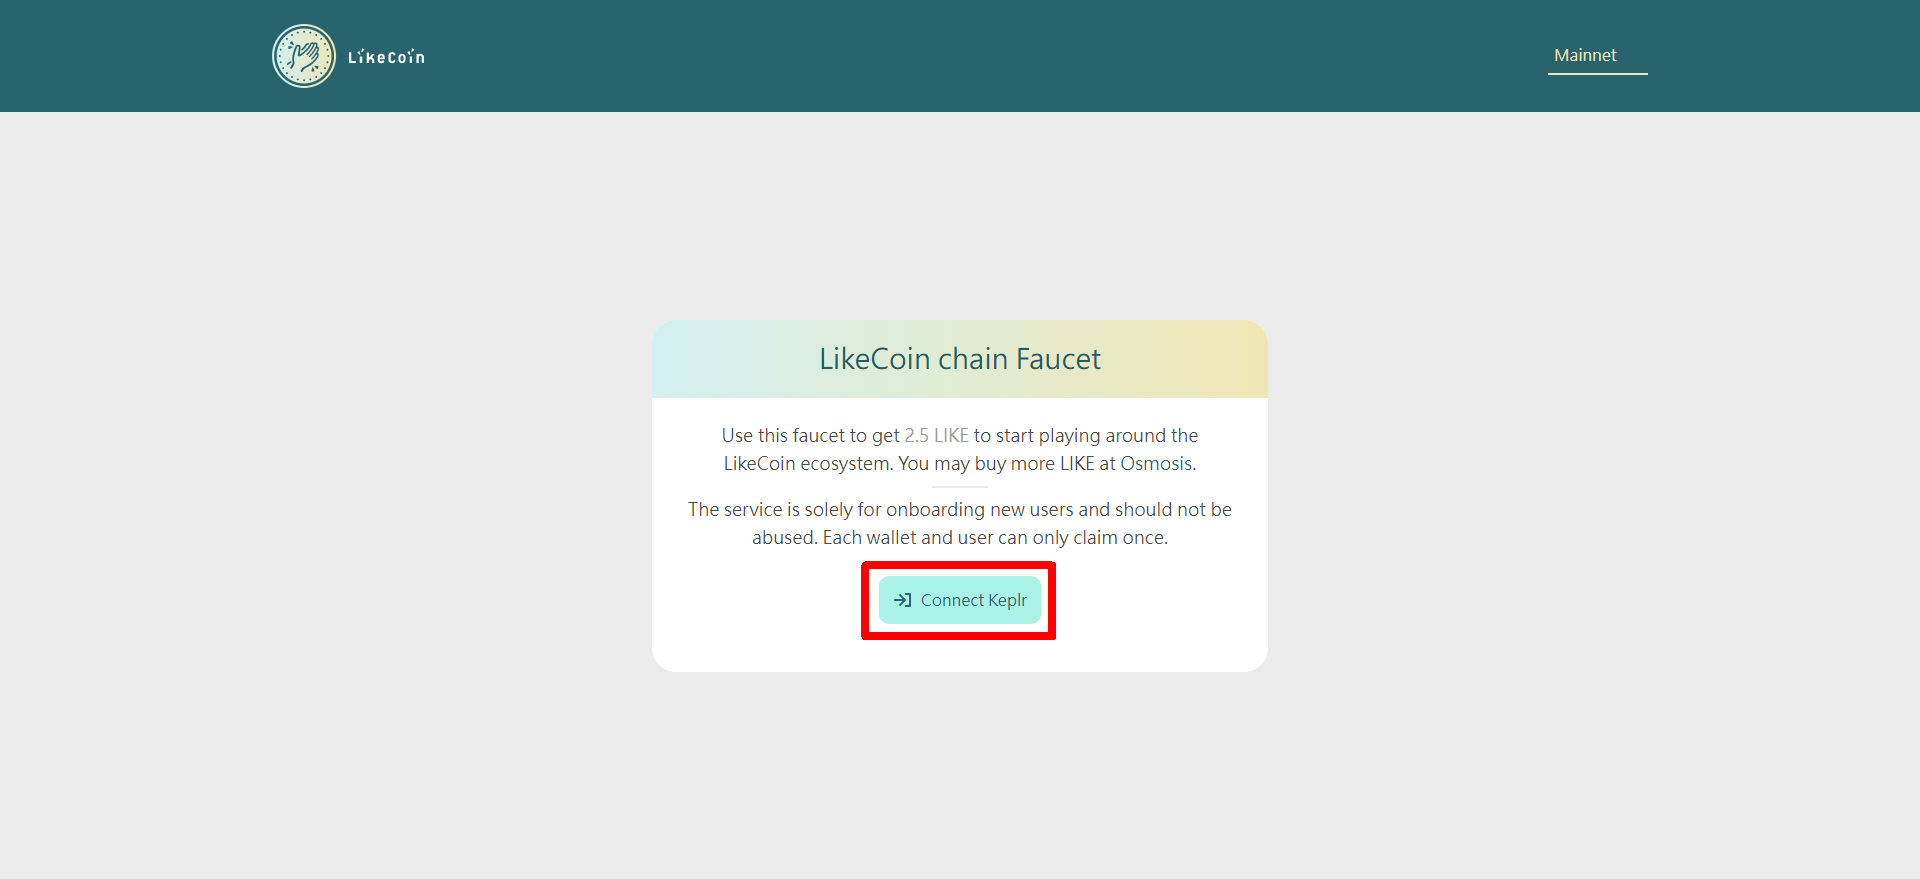
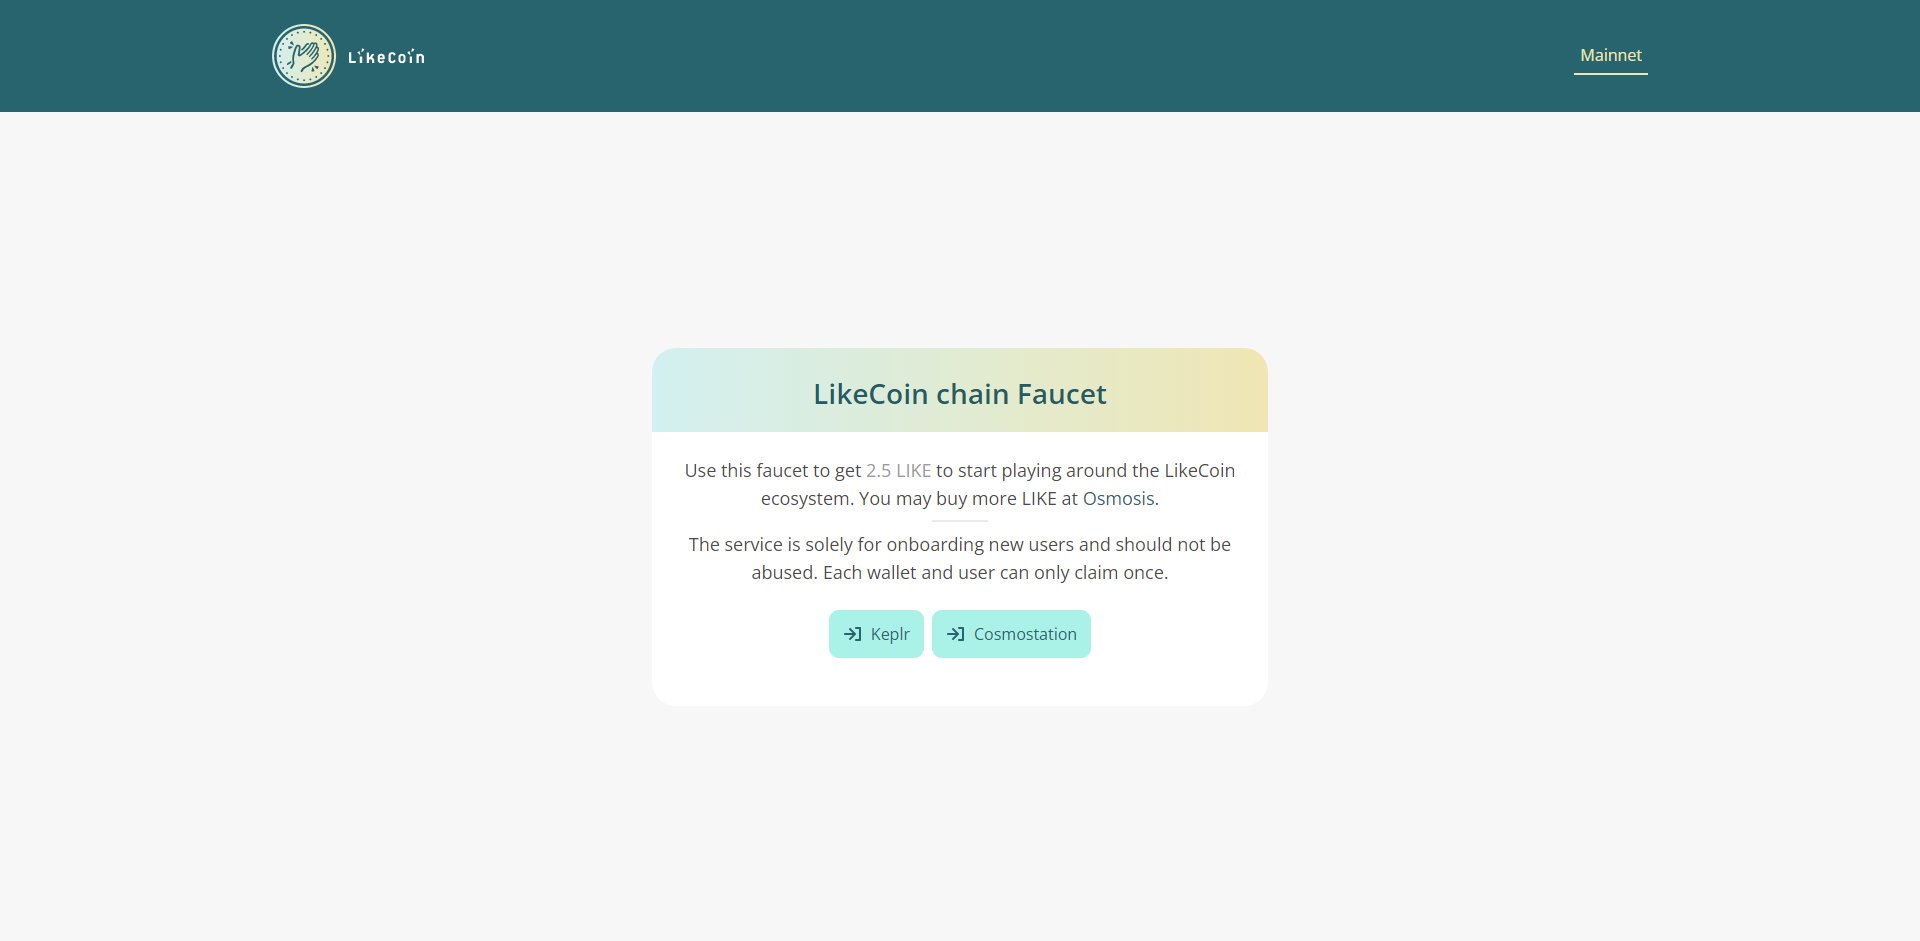
GitBook: [#4049] Faucet

diff --git a/general-guides/faucet.md b/general-guides/faucet.md
@@ -1,18 +1,26 @@
 ---
-description: Faucet
+description: LikeCoin Faucet
 ---
 
 # Faucet
 
 Use this [faucet](https://faucet.like.co/) to get a small amount of LIKE and start playing around the LikeCoin ecosystem. Each wallet and user can only claim once.
 
-Click "Connect Keplr" to connect the Keplr wallet.
+### Step 1: Connect Wallet
+
+Click [Keplr](wallet/keplr.md) or [Comostation](wallet/cosmostation/) to connect to your wallet.
 
 ![](<../.gitbook/assets/faucet 1.png>)
 
 On the Keplr pop-up window, click "Approve".
 
 ![](<../.gitbook/assets/faucet 2.png>)
+
+On the Cosmostation pop-up window, click "Confirm".
+
+![](<../.gitbook/assets/faucet 2.5.png>)
+
+### Step 2: Send Tokens
 
 Your LikeCoin wallet address is connected, click "Send me tokens".
 
@@ -21,6 +29,8 @@ Your LikeCoin wallet address is connected, click "Send me tokens".
 Need to verify whether it is a robot.
 
 ![](<../.gitbook/assets/faucet 4.png>)
+
+### Step 3: Received Tokens
 
 2.5 LIKE have been transferred to your wallet. Click "Check tx" to view the record.
 
